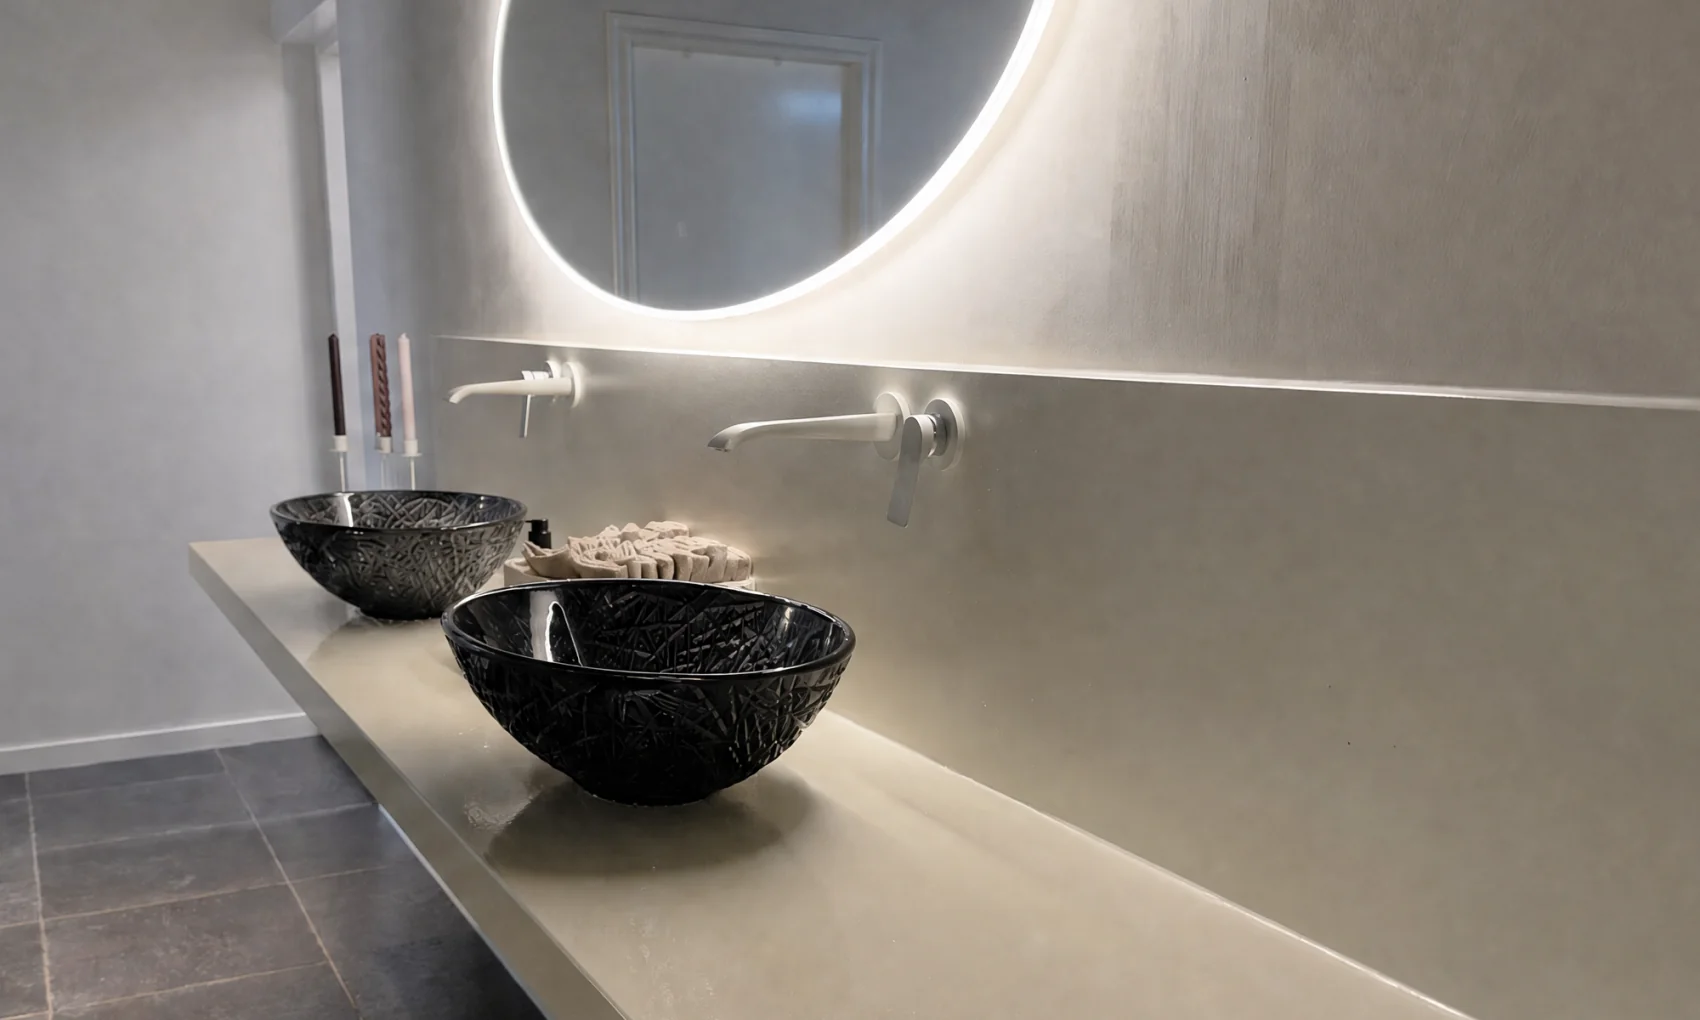
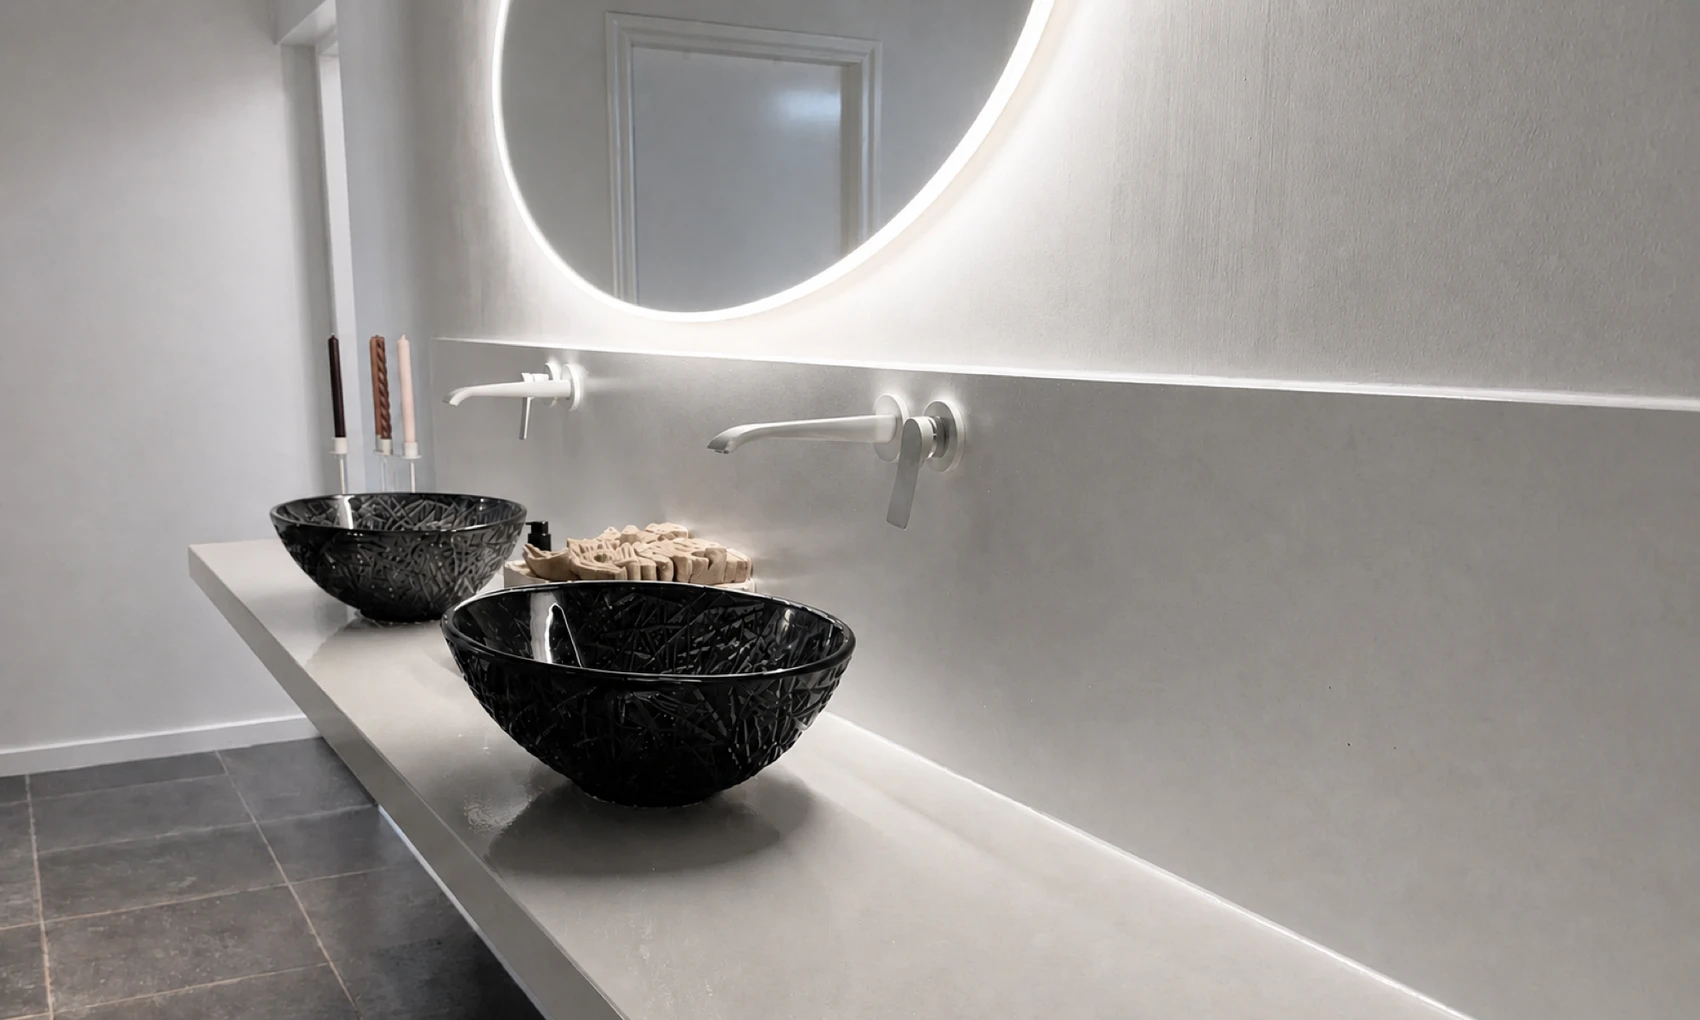
fix(fotos): nieuwe wastafelfoto, en mobiel-crop 4e carrouselfoto naar links
wastafels.webp opnieuw geëxporteerd uit de nieuwe studio-opname, zelfde
compositie en afmetingen dus geen crop-aanpassing nodig — komt automatisch
mee in de carrousel én de fotosheet-galerij. Slot 4 van de carrousel
(cabines-muur-wit) toont op mobiel nu de linkerkant van de foto (10%
i.p.v. center).

diff --git a/src/components/photo-card.tsx b/src/components/photo-card.tsx
@@ -40,7 +40,7 @@ const MOBILE_CROP = [
   "[object-position:28%_50%]",
   "[object-position:25%_50%]",
   "[object-position:50%_50%]",
-  "[object-position:50%_50%]",
+  "[object-position:10%_50%]",
 ];
 
 // Desktop (sm+) crop per slide — plain center except where tuned. The sm:
